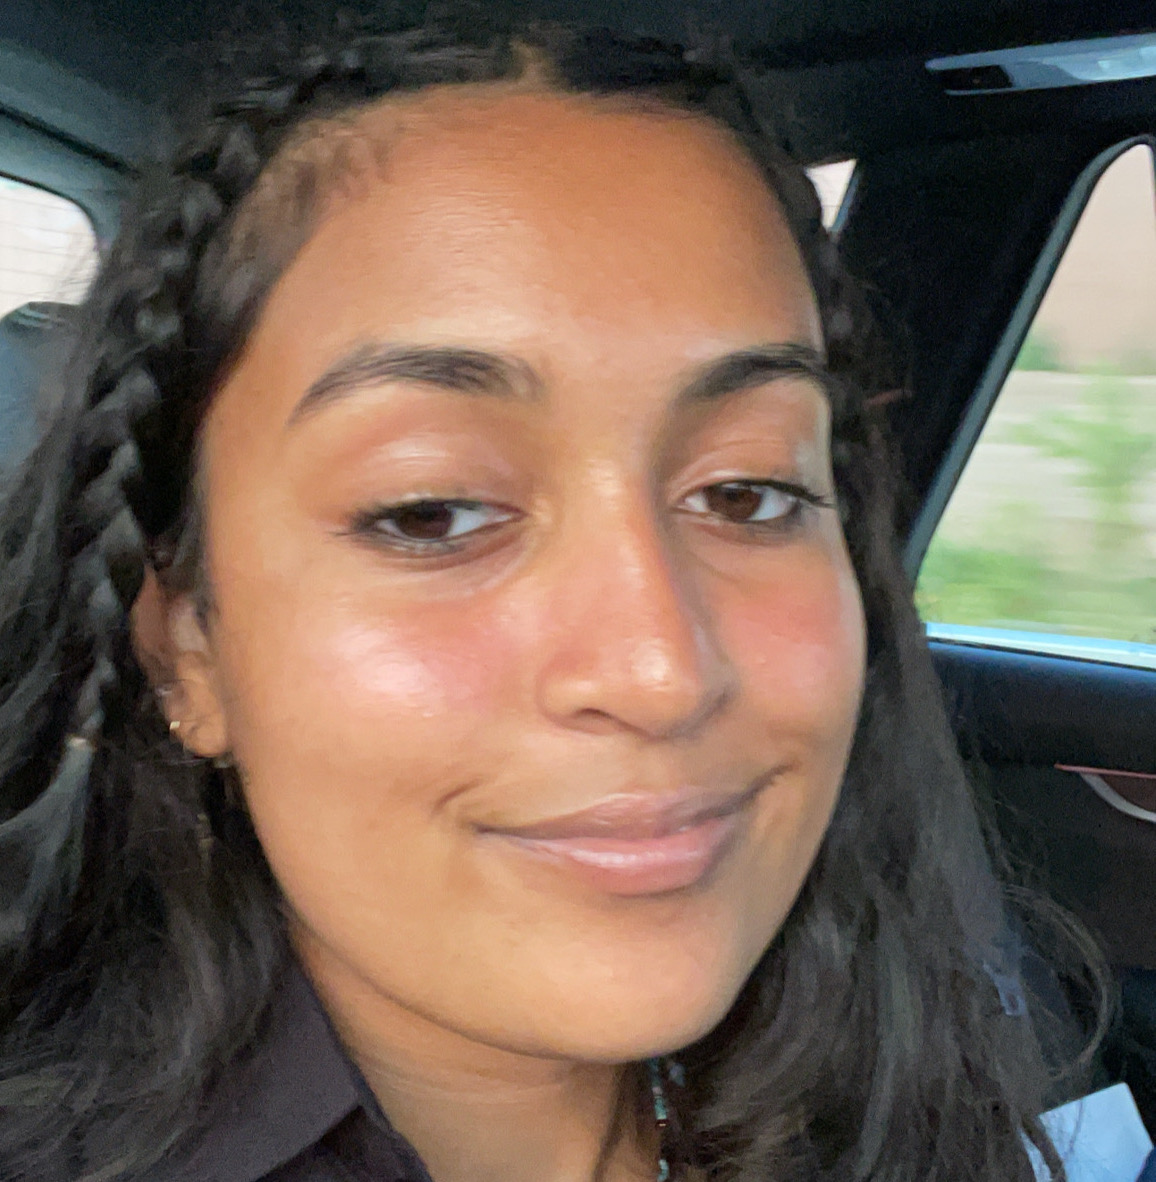
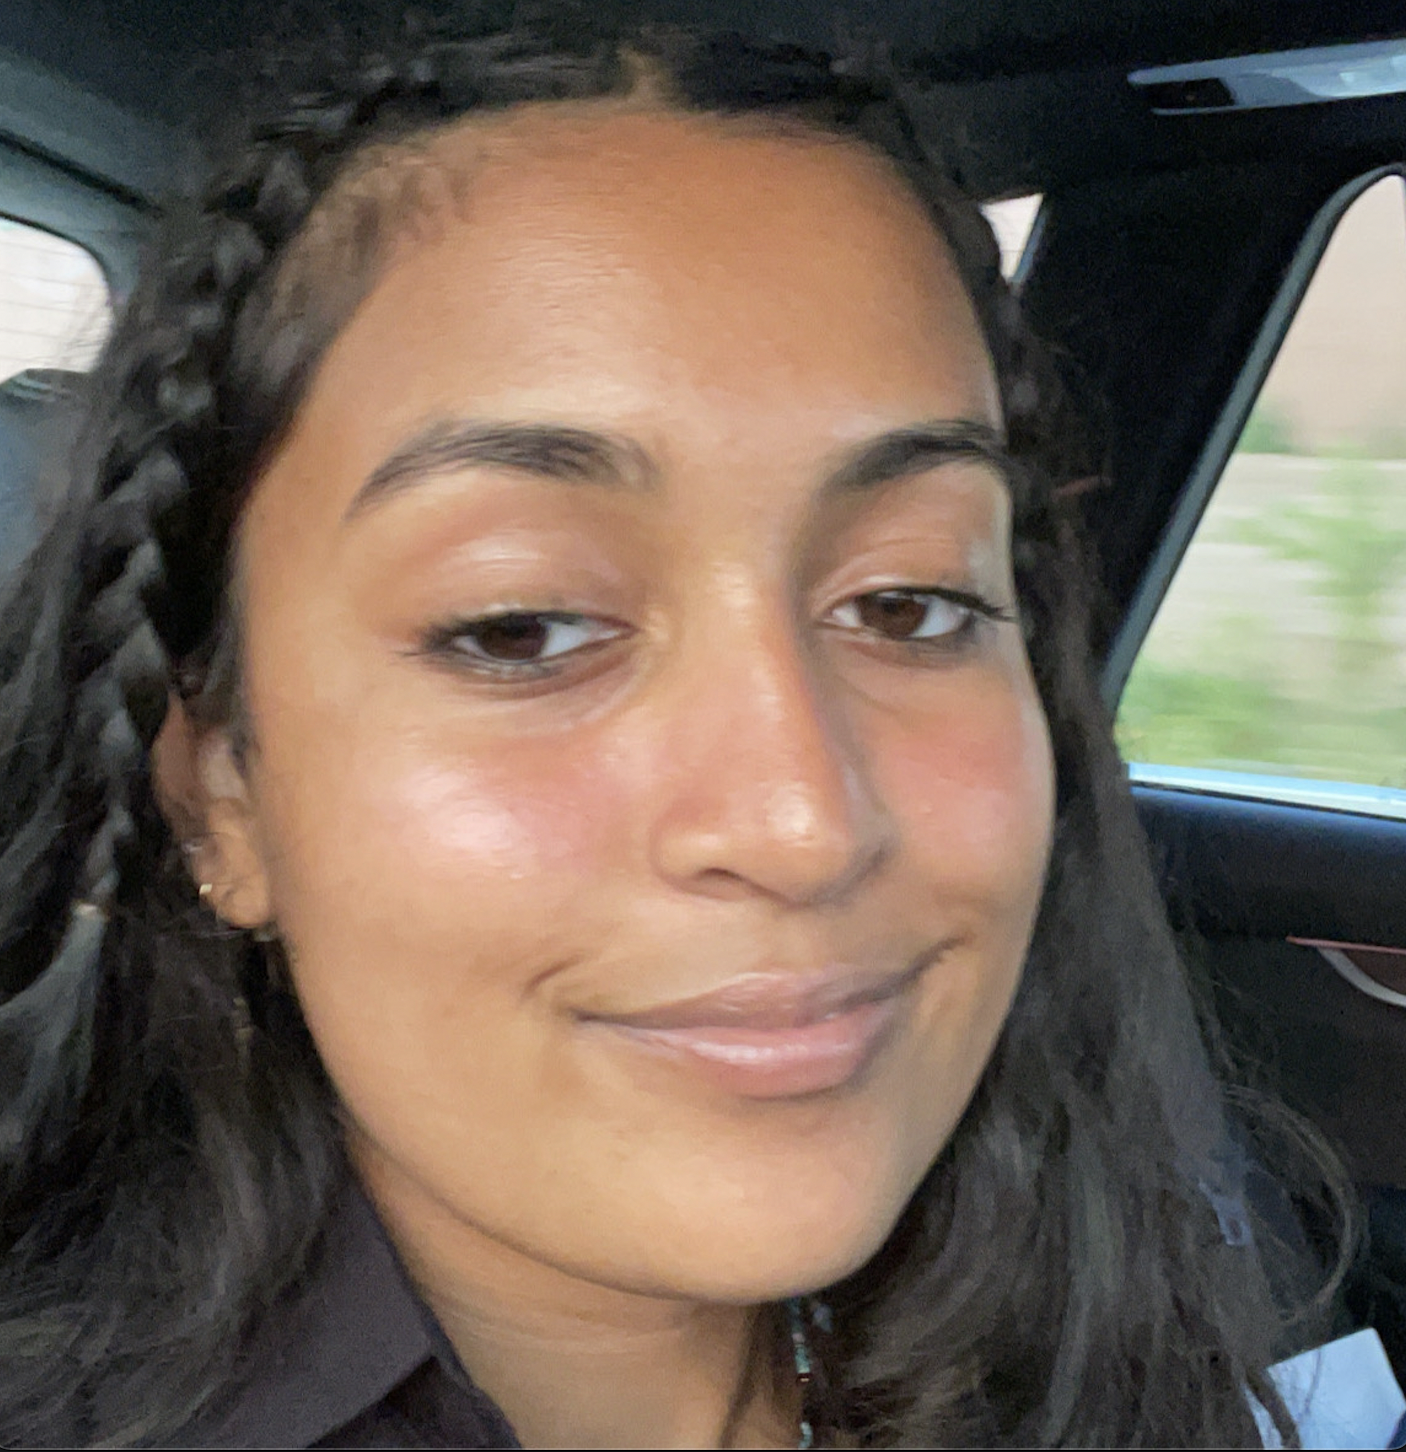
updated: Member image width and height

diff --git a/src/components/Members.js b/src/components/Members.js
@@ -47,7 +47,7 @@ const members = [
     position: "Executive Director and CoFounder",
     team: "Directors",
     classYear: "2023",
-    imgPath: "/images/profilePictures/AishwaryaProfile2.jpg",
+    imgPath: "/images/profilePictures/AishwaryaProfile.jpg",
     email: "varmaa@carleton.edu",
     linkedinProfileUrl: "https://www.linkedin.com/in/aishwaryavarma01/",
   },
@@ -110,7 +110,7 @@ const members = [
     position: "Recruitment Lead",
     team: "Social-Marketing",
     classYear: "2022",
-    imgPath: "/images/profilePictures/AishwaryaProfile2.jpg",
+    imgPath: "/images/profilePictures/AishwaryaProfile.jpg",
     email: "varmaa@carleton.edu",
     linkedinProfileUrl: "https://www.linkedin.com/in/aishwaryavarma01/",
   },
